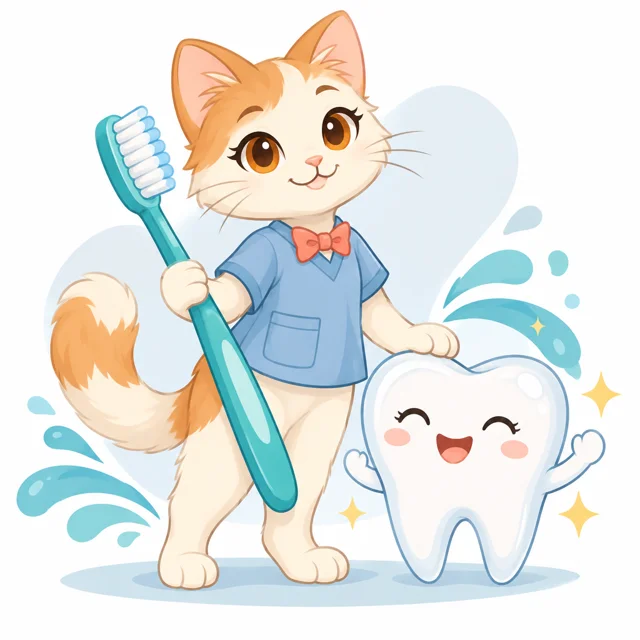
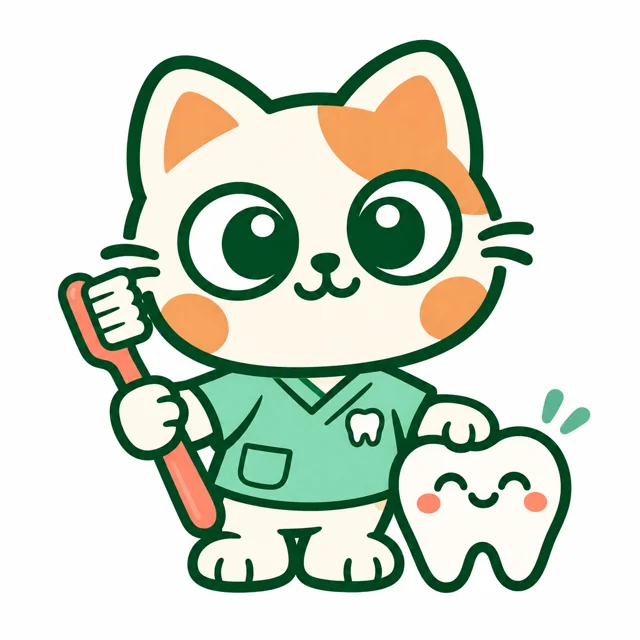
Redraw Reverie's dental and lawyer pictures from her approved references
design/reverie/reverie-dental.webp and reverie-lawyer.webp: redrawn from Blake's Reverie character studio (approved Aim & Imagine board, friendly face, reading and parcel stickers) so the patch, outlines and eyes match. muse/amanda/INTERACTIVE_WORKSPACE_SPEC.md: drops the draft caveat.

diff --git a/muse/amanda/INTERACTIVE_WORKSPACE_SPEC.md b/muse/amanda/INTERACTIVE_WORKSPACE_SPEC.md
@@ -32,7 +32,7 @@ Follow [Blake's Samurai Cat standard](../../design/SAMURAI_CAT.md) for this Blak
 - Make every screen answer: Where am I? What can I do now? What will that change? How will I know it worked? How do I return or recover?
 - Show explicit pending, success, failure, cancel, retry, and stale states; a click does not confirm a save.
 - Use restrained motion and honor reduced-motion preferences.
-- Reverie, Blake's gentle cream-and-ginger cat (she/her), is BlakeGPT's companion. Use `design/reverie/reverie-dental.webp` for dental and office topics and `design/reverie/reverie-lawyer.webp` for legal and contract topics. Give her a purposeful moment, for example welcoming Amanda, an empty Drafts list, or recovering from an error. Never use her as a sign that a check passed. Keep instructions in readable text. These two pictures are drafts until Blake approves them against her reference art.
+- Reverie, Blake's gentle cream-and-ginger cat (she/her), is BlakeGPT's companion. Use `design/reverie/reverie-dental.webp` for dental and office topics and `design/reverie/reverie-lawyer.webp` for legal and contract topics. Give her a purposeful moment, for example welcoming Amanda, an empty Drafts list, or recovering from an error. Never use her as a sign that a check passed. Keep instructions in readable text. Both pictures follow her approved character guide: ginger forehead patch on the viewer's right, forest-green outlines and eyes, flat style. Don't redraw or mirror her.
 
 ## Look and feel
 Calm and quiet: one accent color, generous white space, plain labels and no jargon, large click targets, readable on a phone.
